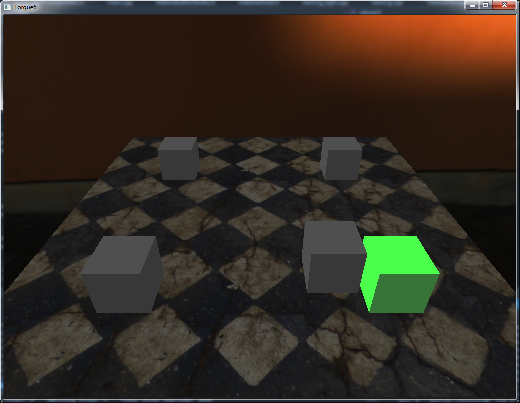
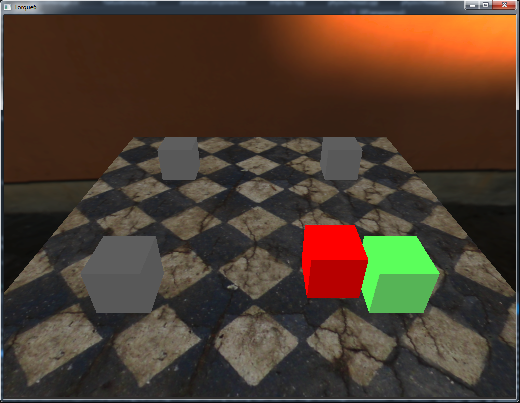
Fixes after bgfx update.

diff --git a/engine/source/3d/entity/components/baseComponent.cc b/engine/source/3d/entity/components/baseComponent.cc
@@ -91,9 +91,9 @@ namespace Scene
       mWorldPosition.set(mTransformMatrix[12], mTransformMatrix[13], mTransformMatrix[14]);
    }
 
-   void BaseComponent::setUniformFloat(const char* name, F32 value)
+   void BaseComponent::setUniformVec4(const char* name, Point4F value)
    {
-      bgfx::UniformHandle handle = Graphics::Shader::getUniform(name, bgfx::UniformType::Uniform1f);
+      bgfx::UniformHandle handle = Graphics::Shader::getUniformVec4(name);
 
       if ( !mUniforms.isEmpty() )
       {
@@ -102,7 +102,7 @@ namespace Scene
             Rendering::UniformData* uni = &mUniforms.uniforms->at(n);
             if ( uni->uniform.idx == handle.idx )
             {
-               dMemcpy(uni->data, &value, sizeof(value));
+               uni->setValue(value);
                refresh();
                return;
             }
@@ -112,32 +112,7 @@ namespace Scene
       Rendering::UniformData* uni = mUniforms.addUniform();
       uni->uniform = handle;
       uni->count = 1;
-      uni->data = new F32(value);
-      refresh();
-   }
-
-   void BaseComponent::setUniformVec3(const char* name, Point3F value)
-   {
-      bgfx::UniformHandle handle = Graphics::Shader::getUniformVec3(name);
-
-      if ( !mUniforms.isEmpty() )
-      {
-         for ( S32 n = 0; n < mUniforms.uniforms->size(); n++ )
-         {
-            Rendering::UniformData* uni = &mUniforms.uniforms->at(n);
-            if ( uni->uniform.idx == handle.idx )
-            {
-               dMemcpy(uni->data, value, sizeof(value));
-               refresh();
-               return;
-            }
-         }
-      }
-
-      Rendering::UniformData* uni = mUniforms.addUniform();
-      uni->uniform = handle;
-      uni->count = 1;
-      uni->data = new Point3F(value);
+      uni->setValue(value);
       refresh();
    }
 

diff --git a/engine/source/graphics/shaders.cc b/engine/source/graphics/shaders.cc
@@ -77,7 +77,7 @@ namespace Graphics
       {
          char uniformName[32];
          dSprintf(uniformName, 32, "Texture%d", slot);
-         textureUniforms[slot] = bgfx::createUniform(uniformName, bgfx::UniformType::Uniform1i);
+         textureUniforms[slot] = bgfx::createUniform(uniformName, bgfx::UniformType::Int1);
       }
       return textureUniforms[slot];
    }
@@ -95,27 +95,17 @@ namespace Graphics
 
    bgfx::UniformHandle Shader::getShadowmapUniform()
    {
-      return getUniform("ShadowMap", bgfx::UniformType::Uniform1i, 1);
-   }
-
-   bgfx::UniformHandle Shader::getUniformVec2(const char* name, U32 count)
-   {
-      return getUniform(name, bgfx::UniformType::Uniform2fv, count);
-   }
-
-   bgfx::UniformHandle Shader::getUniformVec3(const char* name, U32 count)
-   {
-      return getUniform(name, bgfx::UniformType::Uniform3fv, count);
+      return getUniform("ShadowMap", bgfx::UniformType::Int1, 1);
    }
 
    bgfx::UniformHandle Shader::getUniformVec4(const char* name, U32 count)
    {
-      return getUniform(name, bgfx::UniformType::Uniform4fv, count);
+      return getUniform(name, bgfx::UniformType::Vec4, count);
    }
 
-   bgfx::UniformHandle Shader::getUniform4x4Matrix(const char* name, U32 count)
+   bgfx::UniformHandle Shader::getUniformMat4(const char* name, U32 count)
    {
-      return getUniform(name, bgfx::UniformType::Uniform4x4fv, count);
+      return getUniform(name, bgfx::UniformType::Mat4, count);
    }
 
    void destroyShader(Shader* shader)

diff --git a/engine/source/3d/material/nodes/floatNode.cc b/engine/source/3d/material/nodes/floatNode.cc
@@ -49,12 +49,11 @@ namespace Scene
       {
          Rendering::UniformData* uniform = matTemplate->uniforms.addUniform();
          uniform->count = 1;
-         uniform->uniform = Graphics::Shader::getUniform(mUniformName, bgfx::UniformType::Uniform1f);
-         uniform->data = new F32;
-         dMemcpy(uniform->data, &mValue, sizeof(F32));
+         uniform->uniform = Graphics::Shader::getUniform(mUniformName, bgfx::UniformType::Vec4);
+         uniform->setValue(mValue);
 
          char buf[256];
-         dSprintf(buf, 256, "uniform float %s;", mUniformName);
+         dSprintf(buf, 256, "uniform vec4 %s;", mUniformName);
          matTemplate->addPixelHeader(buf);
       }
    }
@@ -62,7 +61,7 @@ namespace Scene
    const char* FloatNode::getPixelReference(MaterialTemplate* matTemplate, ReturnType refType)
    {
       if ( dStrlen(mUniformName) > 0 )
-         dSprintf(mReturnBuf, 64, "%s", mUniformName);
+         dSprintf(mReturnBuf, 64, "%s.x", mUniformName);
       else
          dSprintf(mReturnBuf, 64, "%f", mValue);
 

diff --git a/engine/source/3d/material/nodes/vec3Node.cc b/engine/source/3d/material/nodes/vec3Node.cc
@@ -59,11 +59,11 @@ namespace Scene
       {
          Rendering::UniformData* uniform = matTemplate->uniforms.addUniform();
          uniform->count = 1;
-         uniform->uniform = Graphics::Shader::getUniformVec3(mUniformName);
-         uniform->data = new Point3F(mValue);
+         uniform->uniform = Graphics::Shader::getUniformVec4(mUniformName);
+         uniform->setValue(mValue);
 
          char buf[256];
-         dSprintf(buf, 256, "uniform vec3 %s;", mUniformName);
+         dSprintf(buf, 256, "uniform vec4 %s;", mUniformName);
          matTemplate->addPixelHeader(buf);
       }
    }
@@ -84,7 +84,7 @@ namespace Scene
                dSprintf(mReturnBuf, 64, "%s.rgb", mUniformName);
                break;
             case ReturnVec4:
-               dSprintf(mReturnBuf, 64, "vec4(%s, 1.0)", mUniformName);
+               dSprintf(mReturnBuf, 64, "vec4(%s.rgb, 1.0)", mUniformName);
                break;
          
             case ReturnName:

diff --git a/engine/source/3d/material/nodes/timeNode.cc b/engine/source/3d/material/nodes/timeNode.cc
@@ -43,10 +43,10 @@ namespace Scene
 
    void TimeNode::generateVertex(MaterialTemplate* matTemplate, ReturnType refType)
    {
-      matTemplate->addVertexHeader("uniform float u_time;");
+      matTemplate->addVertexHeader("uniform vec4 u_time;");
 
       char timeOut[128];
-      dSprintf(timeOut, 128, "    float time = u_time * %f;", mMultiplier);
+      dSprintf(timeOut, 128, "    float time = u_time.x * %f;", mMultiplier);
       matTemplate->addVertexBody(timeOut);
    }
 
@@ -57,10 +57,10 @@ namespace Scene
 
    void TimeNode::generatePixel(MaterialTemplate* matTemplate, ReturnType refType)
    {
-      matTemplate->addPixelHeader("uniform float u_time;");
+      matTemplate->addPixelHeader("uniform vec4 u_time;");
 
       char timeOut[128];
-      dSprintf(timeOut, 128, "    float time = u_time * %f;", mMultiplier);
+      dSprintf(timeOut, 128, "    float time = u_time.x * %f;", mMultiplier);
       matTemplate->addPixelBody(timeOut);
    }
 

diff --git a/engine/source/graphics/shaders.h b/engine/source/graphics/shaders.h
@@ -68,10 +68,8 @@ namespace Graphics
          static bgfx::UniformHandle getTextureUniform(U32 slot);
          static HashMap<const char*, bgfx::UniformHandle> uniformMap;
          static bgfx::UniformHandle getUniform(const char* name, bgfx::UniformType::Enum type, U32 count = 1);
-         static bgfx::UniformHandle getUniformVec2(const char* name, U32 count = 1);
-         static bgfx::UniformHandle getUniformVec3(const char* name, U32 count = 1);
          static bgfx::UniformHandle getUniformVec4(const char* name, U32 count = 1);
-         static bgfx::UniformHandle getUniform4x4Matrix(const char* name, U32 count = 1);
+         static bgfx::UniformHandle getUniformMat4(const char* name, U32 count = 1);
    };
 
    //-----------------------------------------------------------------------------

diff --git a/engine/source/3d/material/nodes/forwardNode.cc b/engine/source/3d/material/nodes/forwardNode.cc
@@ -131,10 +131,10 @@ namespace Scene
       if ( mLit )
       {
          matTemplate->addPixelHeader("#include <forwardLighting.sc>");
-         matTemplate->addPixelHeader("uniform vec3 u_camPos;");
+         matTemplate->addPixelHeader("uniform vec4 u_camPos;");
 
          matTemplate->addPixelBody("    // Compute forward lighting.");
-         matTemplate->addPixelBody("    vec3 viewDir = normalize(u_camPos - v_wpos);");
+         matTemplate->addPixelBody("    vec3 viewDir = normalize(u_camPos.xyz - v_wpos);");
          matTemplate->addPixelBody("    vec3 lightColor = computeForwardLighting(v_wpos.xyz, viewDir, v_normal.xyz, v_shadowcoord);");
          matTemplate->addPixelBody("    gl_FragColor = encodeRGBE8(outputColor.rgb * lightColor.rgb * 1000.0);");
       } else {

diff --git a/projects/03-Collision/modules/CollisionExample/1/main.cs b/projects/03-Collision/modules/CollisionExample/1/main.cs
@@ -85,7 +85,7 @@ function SceneEntity::onCollide ( %this, %hit, %type )
         Scene::removeEntity(%this);
         Scene::removeEntity(%hit);
     } else {
-        %this.findComponent("Cube").setUniformVec3("cubeColor", "0.2 1.0 0.2");
+        %this.findComponent("Cube").setUniformVec4("cubeColor", "0.2 1.0 0.2 0.0");
         cancel(%this.resetColorTimer);
         %this.resetColorTimer = %this.schedule(1000, "resetColor");
     }
@@ -93,5 +93,5 @@ function SceneEntity::onCollide ( %this, %hit, %type )
 
 function SceneEntity::resetColor ( %this )
 {
-    %this.findComponent("Cube").setUniformVec3("cubeColor", "0.2 0.2 0.2");
+    %this.findComponent("Cube").setUniformVec4("cubeColor", "0.2 0.2 0.2 0.0");
 }

diff --git a/engine/source/3d/entity/components/baseComponent_ScriptBinding.h b/engine/source/3d/entity/components/baseComponent_ScriptBinding.h
@@ -22,19 +22,11 @@
 
 namespace Scene
 {
-   ConsoleMethod(BaseComponent, setUniformFloat, ConsoleVoid, 4, 4, (""))
+   ConsoleMethod(BaseComponent, setUniformVec4, ConsoleVoid, 4, 4, (""))
    {
-      F32 value;
-      Con::setData(TypeF32, &value, 0, 1, &argv[3]);
+      Point4F value;
+      Con::setData(TypePoint4F, value, 0, 1, &argv[3]);
 
-      object->setUniformFloat(argv[2], value);
-   }
-
-   ConsoleMethod(BaseComponent, setUniformVec3, ConsoleVoid, 4, 4, (""))
-   {
-      Point3F value;
-      Con::setData(TypePoint3F, value, 0, 1, &argv[3]);
-
-      object->setUniformVec3(argv[2], value);
+      object->setUniformVec4(argv[2], value);
    }
 }

diff --git a/engine/source/3d/entity/components/baseComponent.h b/engine/source/3d/entity/components/baseComponent.h
@@ -28,7 +28,7 @@
 #endif
 
 #ifndef _VERTEXLAYOUTS_H_
-#include "graphics/utilities.h"
+#include "graphics/core.h"
 #endif
 
 #ifndef _TEXTURE_MANAGER_H_
@@ -74,8 +74,7 @@ namespace Scene
          const char* mTypeString;
          BaseComponent();
 
-         void setUniformFloat(const char* name, F32 value);
-         void setUniformVec3(const char* name, Point3F value);
+         void setUniformVec4(const char* name, Point4F value);
 
          virtual bool onAdd() { return Parent::onAdd(); }
          virtual void onRemove() { Parent::onRemove(); }

diff --git a/projects/01-AnimatedMesh/modules/AnimatedMeshExample/1/main.cs b/projects/01-AnimatedMesh/modules/AnimatedMeshExample/1/main.cs
@@ -6,10 +6,10 @@ function AnimatedMeshExample::create(%this)
     %entity1.rotation = "0 0 0";
     Scene::addEntity(%entity1, "Dwarf Meshes");
 
-    %light1 = new SceneEntity();
-    %light1.template = "AnimatedMeshExample:Lights";
-    %light1.position = "0 0 0";
-    Scene::addEntity(%light1, "Lights");
+    //%light1 = new SceneEntity();
+    //%light1.template = "AnimatedMeshExample:Lights";
+    //%light1.position = "0 0 0";
+    //Scene::addEntity(%light1, "Lights");
 
     Scene::setDirectionalLight("1 1 -1", "1.0 1.0 1.0", "0.2 0.2 0.2");
 

diff --git a/engine/source/3d/material/nodes/forwardNode.h b/engine/source/3d/material/nodes/forwardNode.h
@@ -45,7 +45,7 @@ namespace Scene
       public:
          ForwardNode();
 
-         virtual U8 getRenderView() { return Graphics::RenderLayer1; }
+         virtual Graphics::ViewTableEntry* getRenderView() { return Graphics::getView("RenderLayer1"); }
          virtual void generateVertex(MaterialTemplate* matTemplate, ReturnType refType);
          virtual void generatePixel(MaterialTemplate* matTemplate, ReturnType refType);
 
